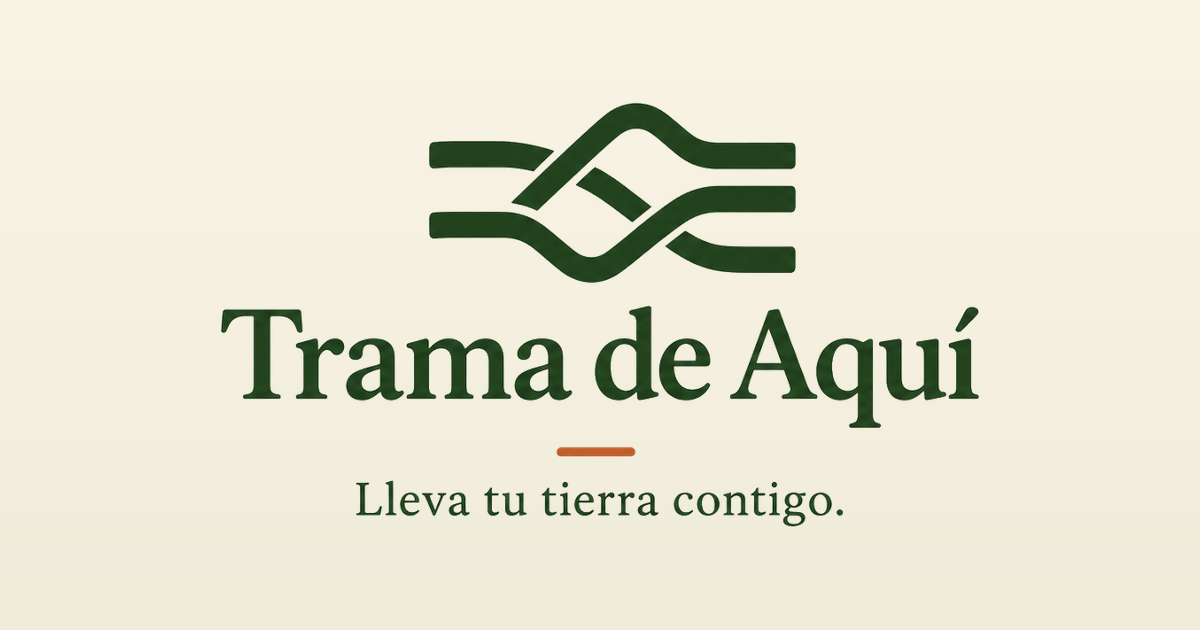
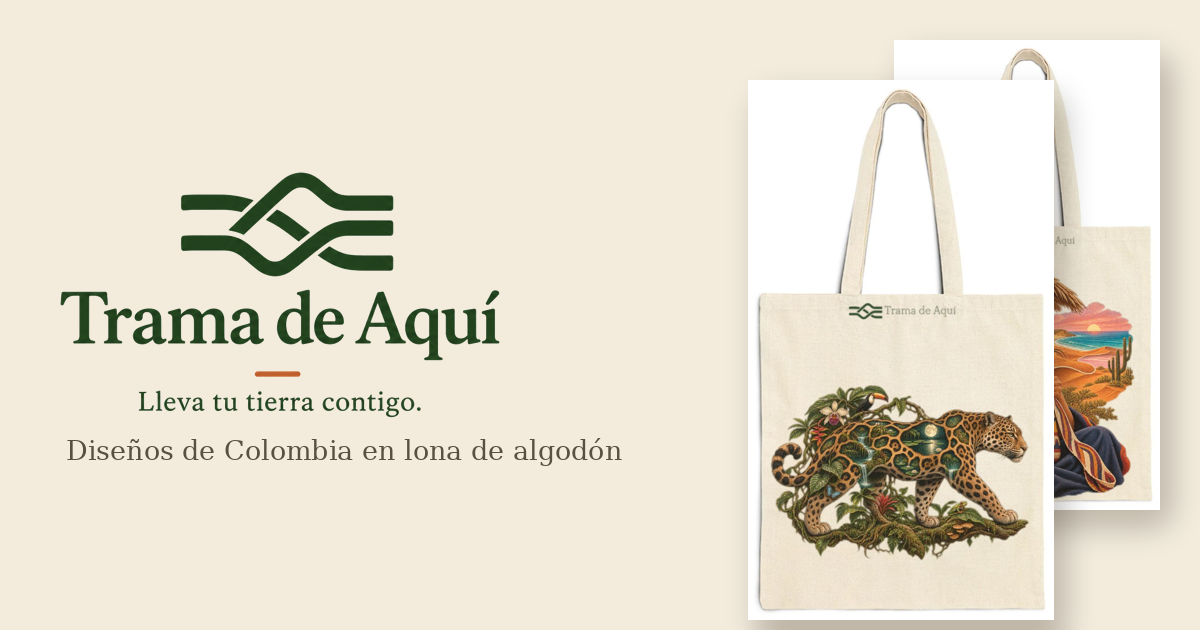
Tarjeta al compartir (Open Graph): imagen con bolsos + texto a Colombia
- og-trama.png ahora muestra el logo real y dos bolsos (jaguar + tejedora wayuu), estática (las tarjetas sociales no animan)
- index y tienda: title/description/og a 'diseños de Colombia' (antes decían Santander)

Claude-Session: https://claude.ai/code/session_019MV2ChF65GATnSuXp8dAgF

diff --git a/index.html b/index.html
@@ -3,16 +3,16 @@
 <head>
 <meta charset="utf-8">
 <meta name="viewport" content="width=device-width, initial-scale=1, viewport-fit=cover">
-<title>Trama de Aquí · Bolsos de lona con diseños de Colombia y Santander</title>
-<meta name="description" content="Bolsos de lona de algodón con diseños de los pueblos, paisajes, danzas y símbolos de Colombia y Santander. Busca tu lugar y pídelo fácil. Envíos a toda Colombia.">
+<title>Trama de Aquí · Bolsos de lona con diseños de Colombia</title>
+<meta name="description" content="Bolsos de lona de algodón con los pueblos, paisajes, danzas, mitos y raíces de Colombia, por departamento. Busca tu lugar y pídelo fácil. Envíos a todo el país.">
 <meta name="theme-color" content="#F7F1E8">
 <link rel="icon" href="favicon.ico" sizes="any">
 <link rel="icon" href="assets/img/marca/favicon-64.png" type="image/png">
 <link rel="apple-touch-icon" href="assets/img/marca/apple-touch-icon.png">
 <link rel="manifest" href="manifest.webmanifest">
 <meta property="og:type" content="website">
-<meta property="og:title" content="Trama de Aquí · Bolsos de lona con diseños de Colombia y Santander">
-<meta property="og:description" content="Diseños de los pueblos, paisajes, danzas y símbolos de Colombia y Santander, estampados en lona. Lleva tu tierra contigo. Envíos a toda Colombia.">
+<meta property="og:title" content="Trama de Aquí · Bolsos de lona con diseños de Colombia">
+<meta property="og:description" content="Los pueblos, paisajes, danzas, mitos y raíces de Colombia —por departamento—, estampados en lona. Lleva tu tierra contigo. Envíos a todo el país.">
 <meta property="og:image" content="https://passbri.github.io/tramadeaqui/assets/img/marca/og-trama.png">
 <meta name="twitter:card" content="summary_large_image">
 <link rel="preconnect" href="https://fonts.googleapis.com">

diff --git a/tienda.html b/tienda.html
@@ -4,7 +4,7 @@
 <meta charset="utf-8">
 <meta name="viewport" content="width=device-width, initial-scale=1, viewport-fit=cover">
 <title>Tienda · Trama de Aquí</title>
-<meta name="description" content="Bolsos de lona con diseños de Santander: pueblos, paisajes, sabores, fe, cultura y más.">
+<meta name="description" content="Bolsos de lona con diseños de Colombia: municipios, danzas, mitos, raíces y los pueblos y sabores de Santander.">
 <meta name="theme-color" content="#F7F1E8">
 <link rel="icon" href="favicon.ico" sizes="any">
 <link rel="icon" href="assets/img/marca/favicon-64.png" type="image/png">
@@ -12,7 +12,7 @@
 <link rel="manifest" href="manifest.webmanifest">
 <meta property="og:type" content="website">
 <meta property="og:title" content="Tienda · Trama de Aquí">
-<meta property="og:description" content="Bolsos de lona con diseños de Santander: pueblos, paisajes, sabores, fe, cultura y más.">
+<meta property="og:description" content="Bolsos de lona con diseños de Colombia: municipios, danzas, mitos, raíces y los pueblos y sabores de Santander.">
 <meta property="og:image" content="https://passbri.github.io/tramadeaqui/assets/img/marca/og-trama.png">
 <meta name="twitter:card" content="summary_large_image">
 <link rel="preconnect" href="https://fonts.googleapis.com">
